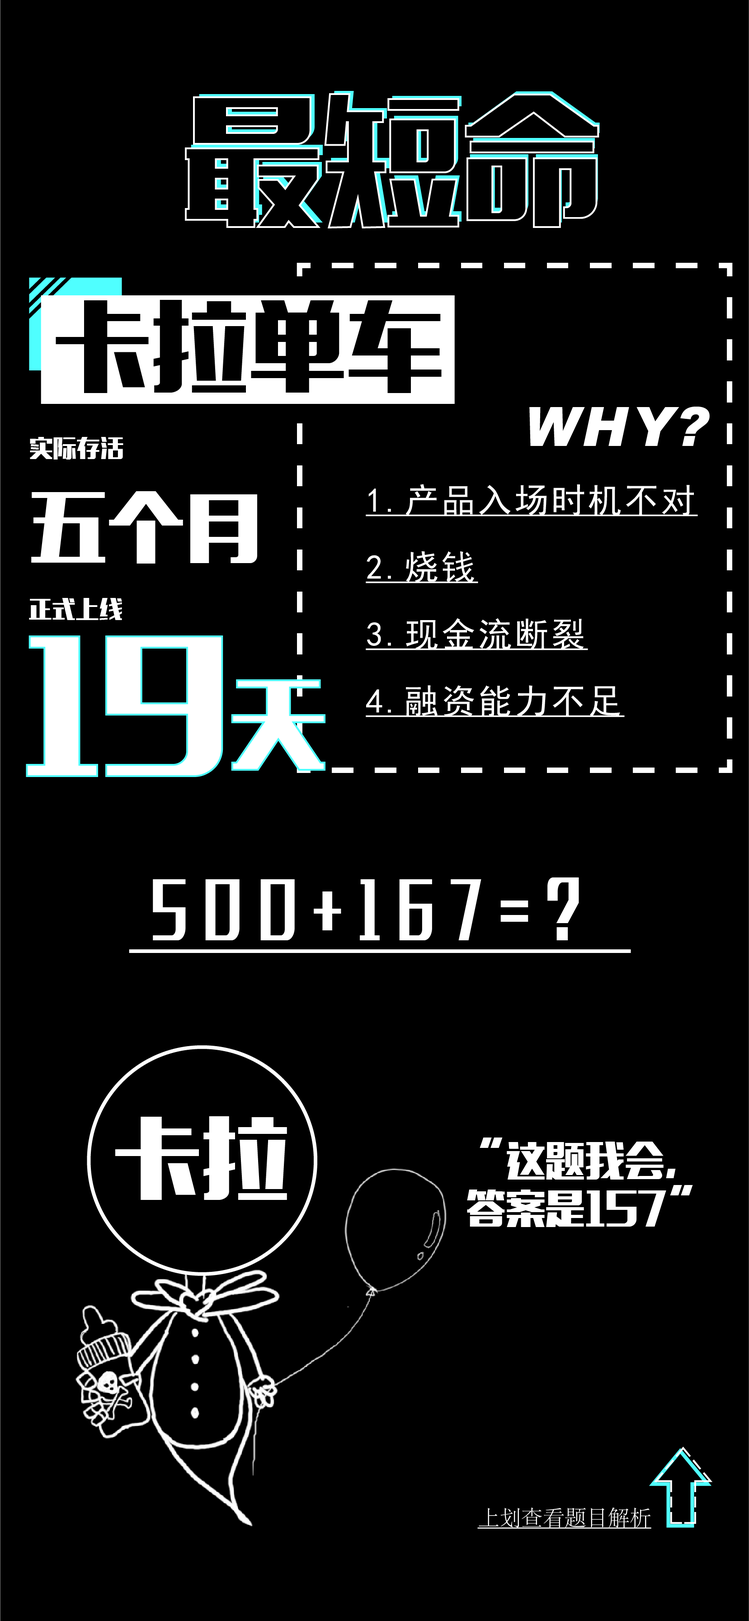
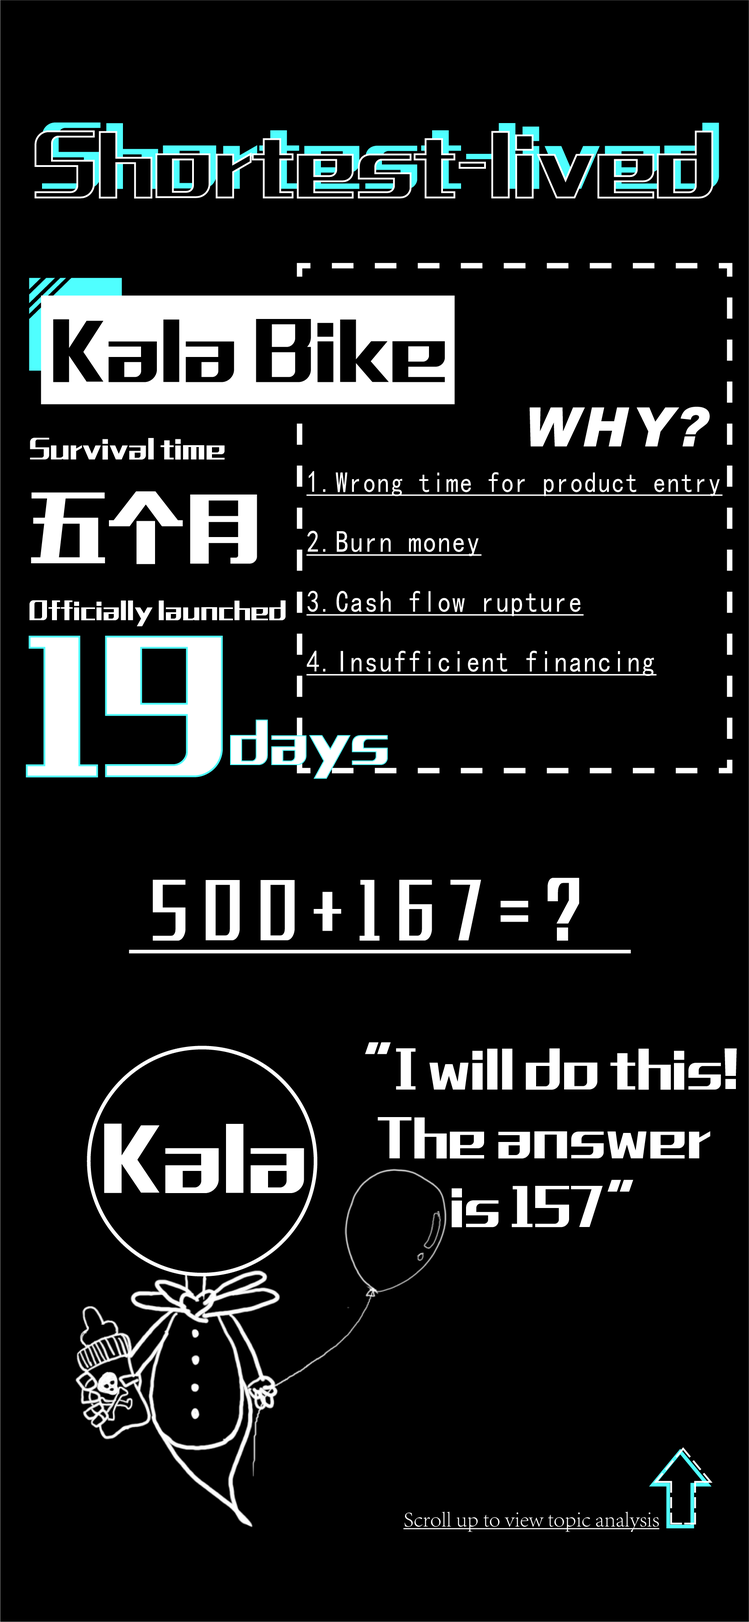
add startup failures EN

diff --git a/storytelling/startup-failures/index.html b/storytelling/startup-failures/index.html
@@ -68,7 +68,11 @@
 
 		.step {
 			margin: 0 auto 2rem auto;
+			text-align:justify;
 			/* color: #fff; */
+		}
+		.step p {
+			text-align:justify;
 		}
 
 		.step:last-child {
@@ -96,7 +100,7 @@
 			<div class="cover_up"></div>
 			<div id='teaser' style="width:100%;height:100vh;">
 
-				<img src="img/teaser-v2.png" alt="" style="position:relative;top:10%;height:550px">
+				<img src="img/teaser-v2.png" alt="" style="position:relative;top:5%;height:550px">
 			</div>
 		</section>
 
@@ -114,23 +118,21 @@
 					<div style="position: absolute;top: 50%;transform: translateY(-47%);">
 						<div class="bar-race" style="display:none;margin:0 auto;max-width:650px;">
 							<!-- <div class="flourish-embed" data-src="visualisation/1112101"></div> -->
-							<div class="flourish-embed flourish-bar-chart-race" data-src="visualisation/3869587"
-								data-url="https://flo.uri.sh/visualisation/3869587/embed" aria-label="">
-								<!-- <script src="https://public.flourish.studio/resources/embed.js"></script> -->
-							</div>
+
+							<div class="flourish-embed flourish-bar-chart-race" data-src="visualisation/5132143"><script src="https://public.flourish.studio/resources/embed.js"></script></div>
 							<div class="bar-intro">
 								<p style="font-size: 8px;"><img
 										style="width:16px;height:16px;top: 2px;position: relative" src="img/alert2.png">
-									拖动时间轴上的箭头，即可探索每年各行业死亡的公司数量。</p>
+										Drag the arrow on the timeline to explore the number of companies closing down in various industries each year.</p>
 								<br>
 								<div class="bar-insight"
 									style="font-size:13px;border:1px dotted #d3d3d3;padding:12px;line-height:25px">
 									<p class="ghost" style="position: relative">
-										在2013-2016年间，死亡数量排行第一、第二的行业，分别在电子商务和企业服务中轮换，而到了2020年，金融行业首当其冲，直接跃升为第1，成为倒闭数量第一的行业。
+										Between 2013 and 2016, the industries that ranked first and second in number of bankruptcies switched to e-commerce and corporate services respectively. By 2020, the financial industry has directly jumped to No.1, becoming the industry with the largest number of bankruptcies.
 									</p>
-									<p class="ghost" style="margin-top:10px;position: relative">
+									<!-- <p class="ghost" style="margin-top:10px;position: relative">
 										观察右下角的Total数据，可以发现在2017年，年度死亡公司数量达到了近十年来的顶峰。从2017年至今，死亡公司数量呈下降趋势。但是这与近三年新增公司数量逐年降低有关。
-									</p>
+									</p> -->
 								</div>
 							</div>
 						</div>
@@ -159,8 +161,8 @@
 						</div>
 						<div id="circle-packing" style="display:none;height:100vh">
 							<td style="position:relative;">
-								<img style="position:absolute;z-index:87" id="img_5" src="img/img_5.png">
-								<img style="position:absolute;z-index:86" id="img_6" src="img/img_6.png">
+								<img style="position:absolute;z-index:87" id="img_5" src="img/img_5.jpg">
+								<img style="position:absolute;z-index:86" id="img_6" src="img/img_6.jpg">
 								<img style="position:absolute;z-index:85" id="img_7" src="img/img_7.png">
 								<img style="position:absolute;z-index:84" id="img_8" src="img/img_8.png">
 								<img style="position:absolute;z-index:83" id="img_9" src="img/img_9.png">
@@ -212,23 +214,22 @@
 
 
 				<div class='step' data-step='2'>
-					<div class="panel">每一年都有不计其数的新经济公司死亡，那么他们都是因为什么原因倒闭的呢？</div>
-					<div class="panel" style="margin-top:500px"> 将死亡原因分成6个大类，由死亡数量排序分别是 <span
-							class="background1"><i>市场定位 </i></span>、<span class="background2"><i>外部问题 </i></span>、<span
-							class="background3"><i>资金问题 </i></span>、<span class="background4"><i>产品问题 </i></span>、<span
-							class="background5"><i>运营问题 </i></span>、<span class="background6"><i>团队问题 </i></span>。</div>
-
+					<div class="panel">Countless startups fail every year, so why do they fail?</div>
+					<div class="panel" style="margin-top:500px">The reasons for failures are divided into 6 categories, which are sorted by the number of startup failures. <span
+							class="background1"><i>Market Positioning</i></span>、<span class="background2"><i>External Issues </i></span>、<span
+							class="background3"><i>Financing Problems </i></span>、<span class="background4"><i>Product Issues </i></span>、<span
+							class="background5"><i>Operational Issues </i></span>、<span class="background6"><i>Team Issues </i></span>。</div>
 				</div>
 				<div class='step' data-step='4'>
 					<div class="panel">
-						这6个大类，又可以细分为20个小类，分别为：<br>
+						These 6 categories can be subdivided into 20 sub-categories: <br>
 						<ul style="font-size: smaller;">
-							<li id="li-1" style="list-style-type:none;">商业模式匮乏、市场伪需求、业务调整、业务过于分散</li>
-							<li id="li-2" style="list-style-type:none;">行业竞争、政策监管、法律法规风险</li>
-							<li id="li-3" style="list-style-type:none;">现金流断裂、融资能力不足、烧钱</li>
-							<li id="li-4" style="list-style-type:none;">产品入场时机、产品缺陷严重</li>
-							<li id="li-5" style="list-style-type:none;">定价/成本问题、营销不足、转型问题、不重视客户</li>
-							<li id="li-6" style="list-style-type:none;">创始人问题、团队能力不足、团队缺乏激情、与投资人冲突</li>
+							<li id="li-1" style="list-style-type:none;">Business Model Not Viable、No Market Need、Business Adjustment、Lack of Focus</li>
+							<li id="li-2" style="list-style-type:none;">Get Outcompeted、Supervision、Legal Challenges</li>
+							<li id="li-3" style="list-style-type:none;">Run Out of Cash、Lacked Financing、Born Out</li>
+							<li id="li-4" style="list-style-type:none;">Bad Timing、Poor Product</li>
+							<li id="li-5" style="list-style-type:none;">Pricing/Cost Issues、Poor Marketing、Pivot Gone Wrong、Ignored Customers</li>
+							<li id="li-6" style="list-style-type:none;">Founder Issues、Lack of team ability、Lack of Passion、Disharmony on Investors</li>
 						</ul>
 
 						<!-- “商业模式匮乏”、“市场伪需求”、“业务调整”、“业务过于分散”、“现金流断裂”、“融资能力不足”、“烧钱”、“行业竞争”、“政策监管”、“法律法规风险”、“产品入场时机”、“产品缺陷严重”、“定价/成本问题”、“营销不足”、“转型问题”、“不重视客户”、“创始人问题”、“团队能力不足”、“团队缺乏激情”、“与投资人冲突”。 -->
@@ -236,171 +237,166 @@
 				</div>
 				<div class='step' data-step='5'>
 					<div class="panel">
-						<h3 style="color:white;padding-bottom: 10px">商业模式匮乏——无数公司倒下的“头号元凶”</h3>
-						其中绝大多数行业的公司的死亡原因中，致死率最高的是“商业模式匮乏”。例如医疗健康行业因为商业模式匮乏而死亡的公司占比高达<span
-							class="background1"><i>55.2%</i></span>，其次是企业服务、广告营销等行业。
+						<h3 style="color:white;padding-bottom: 10px"><b>Business Model Not Viable - the "number one culprit" of numerous company failures</b></h3>
+						Among the causes of company failures in most industries, the most common cause of death is "lack of business model". For example, <span
+							class="background1"><i>55.2%</i></span> of companies in the health care industry died because of a lack of business model, followed by corporate services and advertising and marketing industries.。
 						<img style="width:100%;padding-top: 20px" src="img/rank.png">
 
 					</div>
-					<div class="panel" style="margin-top:500px">大多数行业的“头号元凶”都与商业模式最为相关。但是也存在着例外，分别是汽车交通行业和金融行业。</div>
+					<div class="panel" style="margin-top:500px">The "number one culprit" in most industries is most relevant to the business model. There are exceptions, however, in the auto transportation and financial industries.</div>
 				</div>
 				<div class='step' data-step='6'>
 					<div class="panel">
-						<h3 style="color:white;padding-bottom: 10px">行业竞争——汽车交通行业</h3>
-						<b
-							style="color:#2ec09a">汽车交通</b>行业致死率最高的死亡原因是“行业竞争”。例如共享单车，作为汽车交通行业的代表性分支之一，就曾经是风口行业。“一夜之间”，各种共享单车企业如雨后春笋般涌出，而后过不了多久，就在行业竞争中死亡了一大片。就连共享单车巨头ofo，也未能幸免。
-						<img style="width:100%" src="img/car1.jpg">
+						<h3 style="color:white;padding-bottom: 10px"><b>Industry Competition - Automotive & Transportation Industry</b></h3>
+						In <b style="color:#2ec09a">Automotive & Transportation Industry</b>, the most common cause of failues is "industry competition". Bike-sharing, for example, was once a popular industry as one of the representative branches of the car transportation industry. "Overnight, bike-sharing companies mushroomed, and it didn't take long for a large number of them to die in the competition. Even the bike-sharing giant, ofo, was not spared.
+						<img style="width:100%" src="img/car.png">
 					</div>
 				</div>
 				<div class='step' data-step='7'>
 					<div class="panel">
-						<h3 style="color:white;padding-bottom: 10px">政策监管——金融行业的命门</h3>
-						<b
-							style="color: #e4c630">金融行业</b>死亡原因最多的则是“政策监管”。新经济公司金融行业中有很大一部分是网贷公司。大学生裸贷、315晚会爆出的“714高炮”，以及各种卷钱跑路的P2P网贷平台，这一系列丑闻揭露了网贷行业的乱象，显示了政府监管的必要性。所以政府的监管，成为了金融行业死亡原因占比最高的原因。
+						<h3 style="color:white;padding-bottom: 10px"><b>Supervision - Choking the Finance Industry</b></h3>
+						In <b style="color: #e4c630">Finance Industry</b>, the most common cause of failues is "Policy Supervision"。A large part of the finance industry of new economy companies are online lending companies. A series of scandals, such as the nude loans to university students, the "714 high rollers" that broke out at the 315 Gala, and various P2P lending platforms that ran away with their money, have revealed the chaos in the online lending industry and demonstrated the need for government regulation. This is why government regulation has become the cause of the highest percentage of deaths in the finance industry.
 							<!-- 今年7月1日，湖南卫视著名主持人汪涵因所代言的P2P产品爱钱进疑似“暴雷”而登上微博热搜。 -->
 						<div style="text-align:center;">
-							<img style="width:50%;" src="img/money.jpg">
+							<img style="width:50%;" src="img/money.png">
 						</div>
 					</div>
 
 				</div>
 				<div class='step' data-step='8'>
 					<div class="panel">
-						不同的行业因为有着其自身特点，所以有着不同的死亡原因。那么，对于不同的融资轮次，死亡的原因是否有所差别呢？从图中可以看出，从”尚未获投“一直到”C轮“，死亡公司的数量逐级递减。</div>
+						Different industries have different causes of death because they have their own characteristics. So, do the causes of failures vary by funding round? As you can see from the graph, the number of failures decreases from "not yet invested" to "Series C".</div>
 					<div class="panel" style="margin-top:600px">
-						在尚未获得投资和天使轮死亡的公司中，死亡原因排名第一的是市场定位，而到了A轮和B轮，排名第一的死亡原因则变成了外部原因。</div>
-					<div class="panel" style="margin-top:600px">值得注意的是，团队问题(<svg style="position:relative;top:5px"
+						The number one cause of death for companies that have not yet received investment and for angel rounds is market positioning, while in Series A and B the number one cause of death becomes external issues.</div>
+					<div class="panel" style="margin-top:600px">It is worth noting that the proportion of team issues(<svg style="position:relative;top:5px"
 							t="1577696638572" class="icon" viewBox="0 0 1024 1024" version="1.1"
 							xmlns="http://www.w3.org/2000/svg" p-id="2169" width="20" height="20">
 							<path d="M128.9 128h772.3v772.3H128.9V128z" p-id="2170" fill="#7db35c"></path>
-						</svg>方块所表示部分)这个死亡原因在不同轮次(天使轮->A轮->B轮->C轮)中所占的比例，也逐步提高。说明公司越发展到后期，团队问题愈显重要，可能成为一个容易被忽视但却致命的因素。
+						</svg>)as a cause of death also increases gradually across the different rounds (Angel Round -> Series A -> Series B -> Series C). This indicates that the later a company grows, the more important team issues become, and may become an easily overlooked but fatal factor.
 						<img style="width:300px;margin:20px auto" src="img/tuandui.png">
 					</div>
 				</div>
 
 				<div class='step' data-step='8'>
 					<div class="panel">
-						<h3 style="color:white;padding-bottom: 10px">彩蛋环节——排行榜之最</h3>
-						在“激烈”的新经济公司死亡赛道中，究竟是哪些公司拔得头筹呢？让我们来一起揭秘新经济公司排行榜之最🏆。
+						<h3 style="color:white;padding-bottom: 10px">Top Failed Startups</h3>
+						In a "fierce" race of startup failures, which companies have come out on top? Let's take a look at the top startups that fail🏆<div class=""></div>
 					</div>
 				</div>
 				<div class='step' data-step='9'>
 					<div class="panel">
 
-						<h2 style="text-align: center;font-weight:800">韦博英语</h2>
-						<h4 style="text-align: center;font-weight:600">上榜理由：存活时长高达21年</h4>
+						<h2 style="text-align: center;font-weight:800">WeBi</h2>
+						<h4 style="text-align: center;font-weight:600">Reason for listing:Live for up to 21 years</h4>
 						<div style="position:relative;">
 							<ul class="timeline">
-								<li class="block-item">1998 韦博英语创立。</li>
-								<li class="block-item">2017.11 双十一期间韦博英语成交位列语言培训行业销售排行第一。</li>
-								<li class="block-item">2019.10 韦博英语多家门店相继停止运营、员工被曝出拖欠薪资。</li>
+								<li class="block-item">1998 WeBi was founded</li>
+								<li class="block-item">11/2017 Webi ranked No. 1 in the language training industry during China's "Double 11" shopping festival.</li>
+								<li class="block-item">10/2019 A number of Webi's stores ceased operations and were revealed to have defaulted on employee payroll.</li>
 							</ul>
 						</div>
 					</div>
 					<div class="panel">
-						<h4><b>韦博英语人去楼空、员工欠薪未发、学员退费无门，21岁“高龄”的昔日培训巨头竟沦落到如此地步？</b></h4>
+						<h4><b>WeBi’s management has disappeared, leaving behind a large number of employees whose wages are in arrears and students who cannot be refunded their tuition fees. Why did this older generation, the 21-year-old former training giant, have fallen to this point?</b></h4>
 						<br>
 
-						据韦博英语创始人高卫宇发表的公开道歉信表示，韦博英语由于原本的融资计划因业绩持续恶化，以及近期各类负面舆情影响不断被推迟，带来了资金链断裂，导致公司无法正常运营下去。可是曾经的培训巨头，
-						是怎么沦落到这一步呢？<br><br>
-						<span class="background1"><b><i>1. 没有及时转型 </i></b></span><br>
-						1998年韦博英语成立，正好是改革开放后外资企业进入中国与出国热的第一波高潮，因此韦博英语捕捉到了这波成人英语培训的市场红利。然而在二十多年后的今天，在现在高度重视英语的大环境下，英语已经都从娃娃抓起，英语培训的主力在20年间已经慢慢从成人下沉到了娃娃们，
-						这注定导致了成人英语培训市场的萎缩，而韦博英语主打成人英语培训，明日黄花已成必然。
+						According to a public apology letter issued by Webi's founder, Gao Weiyu, Webi's original financing plan was continuously postponed due to the continued deterioration of its performance and the impact of various recent negative public opinions, which brought about a break in its capital chain, resulting in the company's inability to continue normal operations. How did the former training giant fall to this point?<br><br>
+						<span class="background1"><b><i>1. Pivot Gone Wrong </i></b></span><br>
+						Webi was founded in 1998, at a time when China was in the midst of the first wave of foreign companies entering the country after the reform and opening up and the fever of going abroad, and Webi seized the great market of adult English training. However, more than two decades later, China's society has placed a high priority on English and people have been learning English since they were children, leading to a significant shrinkage of the adult English training market, which has naturally created a great obstacle to the development of Webi, which focuses on adult English education.
 						<br><br>
-						<span class="background1"><b><i>2. 盲目扩张，现金流断裂 </i></b></span><br>
-						同时，韦博英语还涉嫌诱导学员使用网络贷款来一次性缴足学费，并利用这些钱来进行门店的快速扩张，导致入不敷出，现金流断裂，融资计划也未能成功。
-						不少学员使用了韦博英语推荐的互联网金融产品，现在却竹篮打水一场空，他们面临着既上不了课，又退不了钱还必须每个月还贷款的三重困境中。
-						最终一家21年的老企业，带着连续不断的负面舆情，欠着学员的一屁股债，黯然离场。
+						<span class="background1"><b><i>2. Blind expansion leads to running out of cash </i></b></span><br>
+						Webi is also suspected of inducing trainees to use online loans to pay tuition fees in one lump sum, and use the money to expand the store quickly, resulting in insufficient income, broken cash flow, and unsuccessful financing plans.
+						Many students have used the Internet financial products recommended by Webi, but now they are all empty. They are faced with the triple dilemma of not being able to attend classes, and having to pay back their loans every month.
+						In the end, a 21-year-old company left the scene sadly with continuous negative public sentiment and debts to students.
 					</div>
 				</div>
 				<div class='step' data-step='10'>
 					<div class="panel">
-						<h2 style="text-align: center;font-weight:800">卡拉单车</h2>
-						<h4 style="text-align: center;font-weight:600">上榜理由：上线时间19天即倒闭</h4>
+						<h2 style="text-align: center;font-weight:800">Kala Bike</h2>
+						<h4 style="text-align: center;font-weight:600">Reason for listing:Survived only 19 days</h4>
 						<!-- <br> -->
 						<div style="position:relative;">
 							<ul class="timeline">
-								<li class="block-item">2016.10 卡拉单车团队组建</li>
-								<li class="block-item">2017.2 卡拉单车表示，公司在1个月内分两批次，分别投放了500辆和167辆单车，但最终只找回157辆车，丢失率为76.5%
+								<li class="block-item">10/2016 Kala's team is formed</li>
+								<li class="block-item">02/2017 The Kala staff said that the company put 500 and 167 bicycles in two batches within one month, but only 157 vehicles were recovered, with a loss rate of 76.5%.
 								</li>
-								<li class="block-item">2017.3 卡拉单车关闭</li>
+								<li class="block-item">03/2017 Kala goes bankrupt</li>
 							</ul>
 						</div>
 					</div>
 					<div class="panel">
-						<h4><b>上线19天就倒闭，共享单车创业心酸史</b></h4>
+						<h4><b>A sad history of shared bicycle entrepreneurship-closed in 19 days</b></h4>
 						<br>
-						卡拉单车，用19天时间在莆田市投放了667辆车，结果丢失大半，只找回来157辆车，丢失率76.5%。投资人立马全额撤资，导致公司不能不面临倒闭。<br><br>
-						<span class="background1"><b><i>让投资人管账的“职业经理人”式创业不可取 </i></b></span><br>
-						卡拉单车创始人与投资人签订的协议是让投资人管理财务，自己做“甩手掌柜”。
-						在公司危难时刻，投资人居然可以从用户的押金池里面把全额投资款抽出来带走，并且撤走了财务和客服，这样的行为不仅直接导致了公司的破产，还将所有的风险全部转嫁到用户身上。所以“职业经理人”式创业让卡拉单车陷入了如此被动的境地。
+						Cala put 667 bikes in Putian City in 19 days, but lost most of them. Only 157 vehicles were recovered, with a loss rate of 76.5%. Faced with this situation, investors' full withdrawal of capital resulted in the company having to face bankruptcy.<br><br>
+						<span class="background1"><b><i>"Professional manager" entrepreneurship that allows investors to manage the accounts is not desirable </i></b></span><br>
+						The agreement signed by the founder of Cala and the investor is for the investor to manage the finances, and the founder does nothing.
+						When the company is in crisis, investors can actually withdraw the full amount of investment money from the user’s deposit pool, and remove the financial staff and customer service staff. Such behavior not only directly leads to the bankruptcy of the company, but also transfers all the risk To the users. It is the "professional manager" entrepreneurship that makes Cala fall into such a passive position.
 					</div>
 
 				</div>
 				<div class='step' data-step='11'>
 					<div class="panel">
-						<h2 style="text-align: center;font-weight:800">酷骑单车</h2>
-						<h4 style="text-align: center;font-weight:600">上榜理由：存活379天 融资10亿元 日均烧钱263.85万 排名第一</h4>
+						<h2 style="text-align: center;font-weight:800">Kuqi Bike</h2>
+						<h4 style="text-align: center;font-weight:600">Reason for listing:Survive for 379 days, raise 1 billion yuan, spend an average of 2.6385 million per day</h4>
 						<div style="position:relative;">
 							<ul class="timeline">
-								<li class="block-item">2016.11 酷骑单车成立</li>
-								<li class="block-item">2017.9 因押金难退，多处运营单位与工商局失去联系等问题，部分地区已开始对酷骑单车进行清理。</li>
-								<li class="block-item">2017.12 中国消费者协会公开发文，称截至12月11日，仅针对酷骑单车的投诉就超过21万次，涉及金额10亿多元。</li>
-								<li class="block-item">2019.7 据用户投诉，在2019年7月12日，酷骑单车公布的显示退押金专线3个电话已经全部停机。</li>
+								<li class="block-item">11/2016 Kuqi was founded</li>
+								<li class="block-item">09/2017 Due to the fact that the deposit is difficult to refund, and many operating units have lost contact with the Industrial and Commercial Bureau, some areas have begun to clean up the their bikes.</li>
+								<li class="block-item">12/2017 The Chinese Consumers Association published a document stating that as of December 11, there had been more than 210,000 complaints against Kuqi alone, involving more than 1 billion yuan.</li>
+								<li class="block-item">07/2019 According to user complaints, on July 12, 2019, all three telephone lines showing deposit refunds announced by Kuqi had been shut down.</li>
 							</ul>
 						</div>
 					</div>
 					<div class="panel">
-
-						<span class="background1"><b><i>共享单车行业已到寒冬，烧多少钱也没法取暖 </i></b></span><br>
-						资金链断裂，成了压死酷骑单车的最后一根稻草。曾经的ofo，在行业竞争中，打败了多少共享单车创业公司和中小投资者，如今它也变得苟延残喘。<br>
-						酷骑单车与ofo一样，都面临着押金退不出来的困境。针对酷骑单车的投诉连续不断，涉案金额庞大，高达21亿元。作为受害者之一，以后类似的押金收取形式我们应当慎之又慎。
+						<span class="background1"><b><i>The bike-sharing industry has entered the cold winter, and there is no way to keep warm when you burn </i></b></span><br>
+						The break of the capital chain became the last straw that crushed Kuqi. Once upon a time, ofo has defeated many bike-sharing startups and small and medium-sized investors in competition in the industry, and now it has become lingering.<br>
+						Like ofo, Kuqi is facing the dilemma that the deposit cannot be refunded. Complaints against Kuqi continued, involving a huge amount of 2.1 billion yuan. As one of the victims, I advise everyone that we should be cautious about similar deposit collection methods in the future.
 					</div>
 				</div>
 				<div class='step' data-step='12'>
 					<div class="panel">
-						<h2 style="text-align: center;font-weight:800">团贷网</h2>
-						<h4 style="text-align: center;font-weight:600">上榜理由：融资榜第一 24.75亿元</h4>
+						<h2 style="text-align: center;font-weight:800">TuanDai</h2>
+						<h4 style="text-align: center;font-weight:600">Reason for listing:Obtained 2.475 billion yuan in financing</h4>
 						<div style="position:relative;">
 							<ul class="timeline">
-								<li class="block-item">2012.7 团贷网上线</li>
-								<li class="block-item">2017.9 团贷网创始人兼CEO唐军成为新三板上市公司光影侠第一大股东和实际控制人。</li>
-								<li class="block-item">2016.3 平台累计交易量近160亿元，平台的投资注册用户超过240万人，为投资人赚取了超5.2亿元的收益。</li>
-								<li class="block-item">2019.3 东莞市公安局发布情况通报，团贷网实际控制人唐某、张某主动向东莞市公安局投案。</li>
+								<li class="block-item">07/2012 Tuandai.com put into use</li>
+								<li class="block-item">09/2017 Tang Jun, founder and CEO of Tuandai.com, became the largest shareholder and actual controller of Guangyingxia, a listed company on the NEEQ.</li>
+								<li class="block-item">03/2016 The cumulative trading volume of the platform is nearly 16 billion yuan, and the platform has more than 2.4 million registered investment users, earning more than 520 million yuan in income for investors.</li>
+								<li class="block-item">03/2019 The Dongguan Public Security Bureau issued a notice that Tang and Zhang, the actual controllers of the group loan network, took the initiative to surrender to the Dongguan Public Security Bureau.</li>
 							</ul>
 						</div>
 					</div>
 					<div class="panel">
-						团贷网涉嫌非法吸收公众存款已被立案侦查，唐军作为实控人已经投案自首。一场游戏一场梦，一位年纪轻轻、身价上亿的八五后CEO，转眼发生了身份的巨变。
+						Tuandai.com has been filed for investigation on suspicion of illegally absorbing public deposits, and Tang Jun has surrendered as the actual controller. It's like a dream of a young CEO born in the 1985 with a net worth of over 100 million. His identity has changed dramatically in a blink of an eye.
 						<br><br>
-						<span class="background1"><b><i>投资有风险，互联网金融更需谨慎 </i></b></span><br>
-						团贷网的“权威性”——推荐人分析的头头是道、别人投我也投的“从众思想”让很多民众入了“大坑”。高新手标年化收益率，更是让人心动。
-						所以要做投资，一定要深刻反思时时警惕做好风险预警。要甄别不可盲目跟投也不相信空头“承诺”，充分的了解深入的分析后在对其投资，如没办办法分辨，建议规避风险。
-						同时也应该推动互联网金融大数据与征信系统结合，建立更好的社会征信体系。
+						<span class="background1"><b><i>Investment is risky, and Internet finance needs more caution </i></b></span><br>
+						The “authoritative” recommendation of Tuandai.com’s analysis is arrogant, and the “herd thinking” that others voted for has caused many people to fall into the “big pit”. The annualized rate of return for high novices is even more exciting.
+						Therefore, in order to invest, we must deeply reflect and be vigilant at all times to make risk warnings. It is necessary to distinguish between blindly following investors and not believing in the "promises" of shorts. After fully understanding and in-depth analysis, invest in them. If there is no way to distinguish, it is recommended to avoid risks.
+						At the same time, it should also promote the integration of Internet financial big data and credit reporting systems to establish a better social credit reporting system.
 					</div>
 
 				</div>
 
 				<div class='step' data-step='13'>
 					<div class="panel">
-						<h2 style="text-align: center;font-weight:800">快播</h2>
-						<h4 style="text-align: center;font-weight:600">上榜理由：IT桔子上香榜排名第一 705柱</h4>
+						<h2 style="text-align: center;font-weight:800">Qvod</h2>
+						<h4 style="text-align: center;font-weight:600">Reason for listing:The most memorable company</h4>
 						<div style="position:relative;">
 							<ul class="timeline">
-								<li class="block-item">2007.12 深圳快播成立</li>
-								<li class="block-item">2009.1 深圳快播获得软银赛富数百万美元A轮投资</li>
-								<li class="block-item">2011 快播成为了全中国市场占有量第一的播放器 </li>
+								<li class="block-item">12/2007 Shenzhen QVOD technology company was founded</li>
+								<li class="block-item">01/2009 QVOD received millions of dollars in Series A investment from Softbank SAIF</li>
+								<li class="block-item">2011 Qvod has become the player with the largest market share in China </li>
 								</li>
-								<li class="block-item">2016.9 快播公司及主管人员涉嫌传播淫秽物品牟利被审理，快播王欣获刑3年6个月</li>
+								<li class="block-item">09/2016 Gvod company and its executives were tried on suspicion of spreading obscene materials for profit, Wang Xin was sentenced to 3 years and 6 months in prison</li>
 								<!-- <li class="block-item">2007.12 深圳快播成立</li> -->
-								<li class="block-item">2018.9 深圳中院裁定快播破产清算,即日生效</li>
+								<li class="block-item">09/2018 Shenzhen Intermediate People's Court ruled that Qvod was liquidated, effective today</li>
 							</ul>
 						</div>
 					</div>
 					<div class="panel">
-						快播曾被喻为“宅男的青春”。所以快播在上香榜上排名最高，也是情有可原。
-						当年，王欣在辩护时提出的“技术无罪”论得到了绝大多数网友的认同，但是也并没有改变结局，快播还是败诉了，王欣被判入狱3年6个月。
-						时过境迁，现在的我们都已经承认一个公司有义务对用户的行为负责。正如滴滴的顺风车杀人案件，滴滴也必须站出来挨打。所以快播的倒闭虽然令人惋惜，但有其历史必然性。
+						Qvod was once called "the youth of an otaku". It is the excuseable that Qvod is most remembered by people
+						Back then, Wang Xin's "technological innocence" theory put forward in his defense was recognized by most netizens, but it did not change the outcome. Qvod still lost the case and Wang Xin was sentenced to 3 years and 6 months in prison.
+						Times have changed, and now we have all admitted that a company is obliged to be responsible for the actions of users. Just like Didi's ride-hailing murder case, Didi must also stand up and be beaten. So although the collapse of Qvod is regrettable, it has its historical inevitability.
 
 					</div>
 

diff --git a/storytelling/startup-failures/style.css b/storytelling/startup-failures/style.css
@@ -175,7 +175,7 @@ article{
   /* box-shadow: 5px 5px 14px rgba(67, 67, 67, 0.5);  */
   position: relative;
   z-index:2;
-  text-align: left;
+  /* text-align: left; */
   padding: 1rem;
   font-size: 1rem;
   background-color: rgba(0, 0, 0, 0.9);
